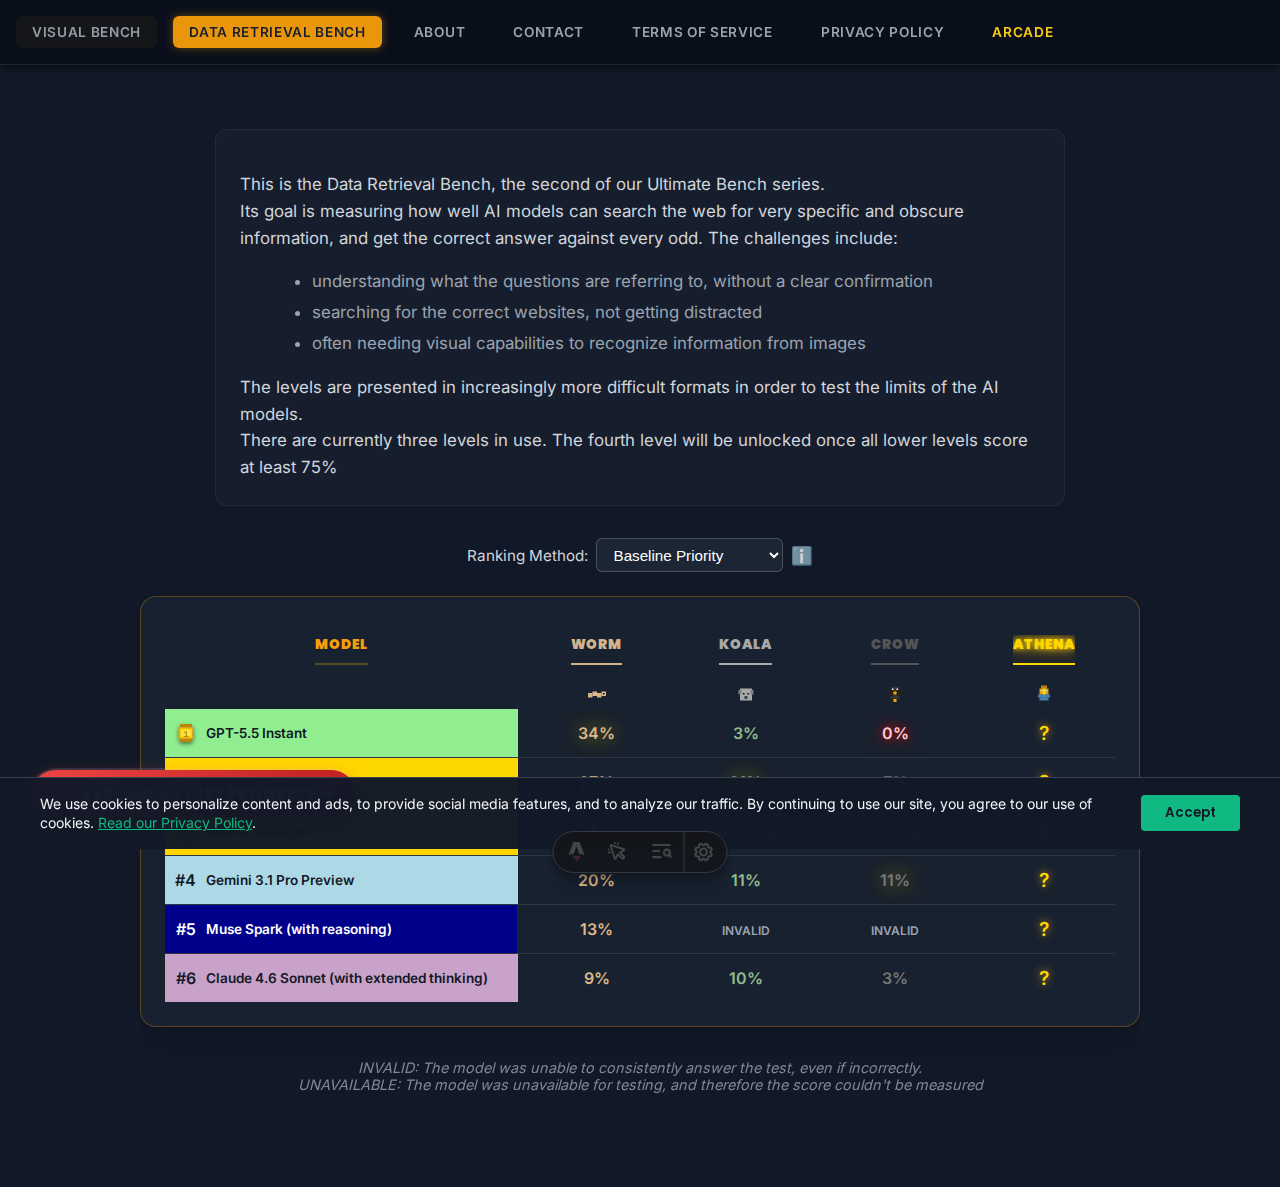
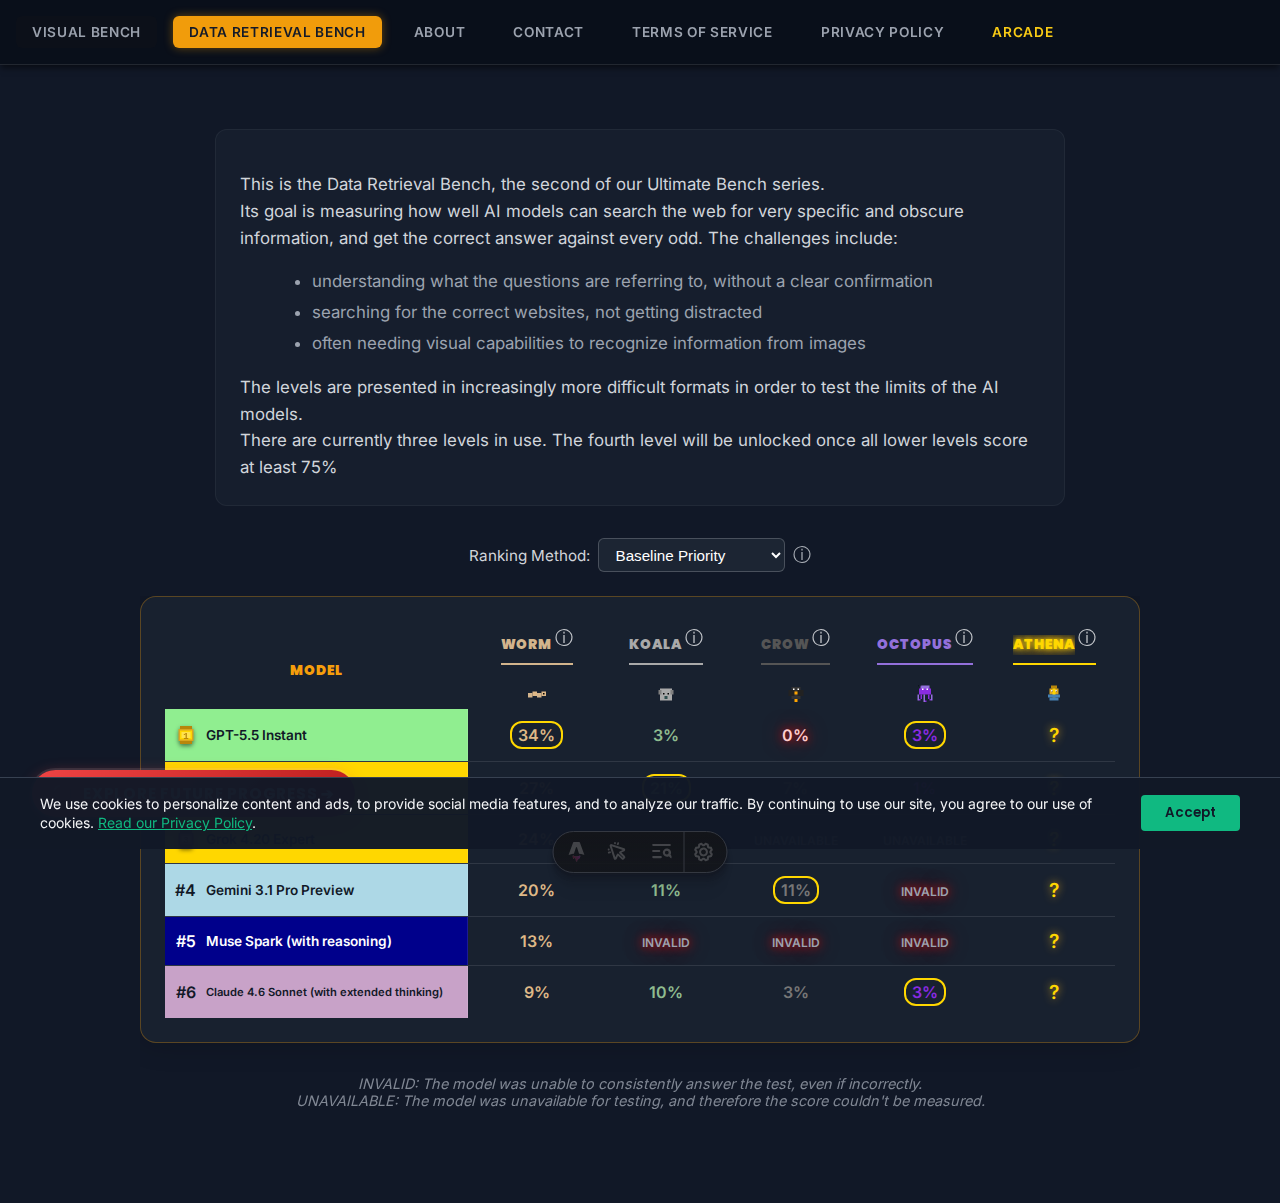
feat: add OCTOPUS column to Data Retrieval benchmark
- Added 'octopus' scores for 6 AI models in `benchmarks.ts`, mapping Grok 4.20 Expert as 'UNAVAILABLE' as per user instruction.
- Added new `.octopus-header` and `.octopus-score` custom CSS, styled with purple/deep sea colors in `index.astro`.
- Inserted a creative pixel-art Octopus SVG into the table headers.
- Adapted `grid-template-columns` and rank sorting logic dynamically for the new 5th column.

diff --git a/src/data/benchmarks.ts b/src/data/benchmarks.ts
@@ -162,11 +162,11 @@ export const benchmarks = {
         }
     ],
     dataRetrieval: [
-        { name: 'Grok 4.20 Expert', scores: { worm: 24, koala: "UNAVAILABLE", crow: "UNAVAILABLE" }, releaseDate: '2026-02-18' },
-        { name: 'Grok 4.3 Fast', scores: { worm: 27, koala: 21, crow: 7 } },
-        { name: 'Gemini 3.1 Pro Preview', scores: { worm: 20, koala: 11, crow: 11 } },
-        { name: 'Muse Spark (with reasoning)', scores: { worm: 13, koala: 'INVALID', crow: 'INVALID' } },
-        { name: 'Claude 4.6 Sonnet (with extended thinking)', scores: { worm: 9, koala: 10, crow: 3 }, releaseDate: '2026-02-21' },
-        { name: 'GPT-5.5 Instant', scores: { worm: 34, koala: 3, crow: 0 } }
+        { name: 'Grok 4.20 Expert', scores: { worm: 24, koala: "UNAVAILABLE", crow: "UNAVAILABLE", octopus: "UNAVAILABLE" }, releaseDate: '2026-02-18' },
+        { name: 'Grok 4.3 Fast', scores: { worm: 27, koala: 21, crow: 7, octopus: 1 } },
+        { name: 'Gemini 3.1 Pro Preview', scores: { worm: 20, koala: 11, crow: 11, octopus: 'INVALID' } },
+        { name: 'Muse Spark (with reasoning)', scores: { worm: 13, koala: 'INVALID', crow: 'INVALID', octopus: 'INVALID' } },
+        { name: 'Claude 4.6 Sonnet (with extended thinking)', scores: { worm: 9, koala: 10, crow: 3, octopus: 3 }, releaseDate: '2026-02-21' },
+        { name: 'GPT-5.5 Instant', scores: { worm: 34, koala: 3, crow: 0, octopus: 3 } }
     ]
 };
